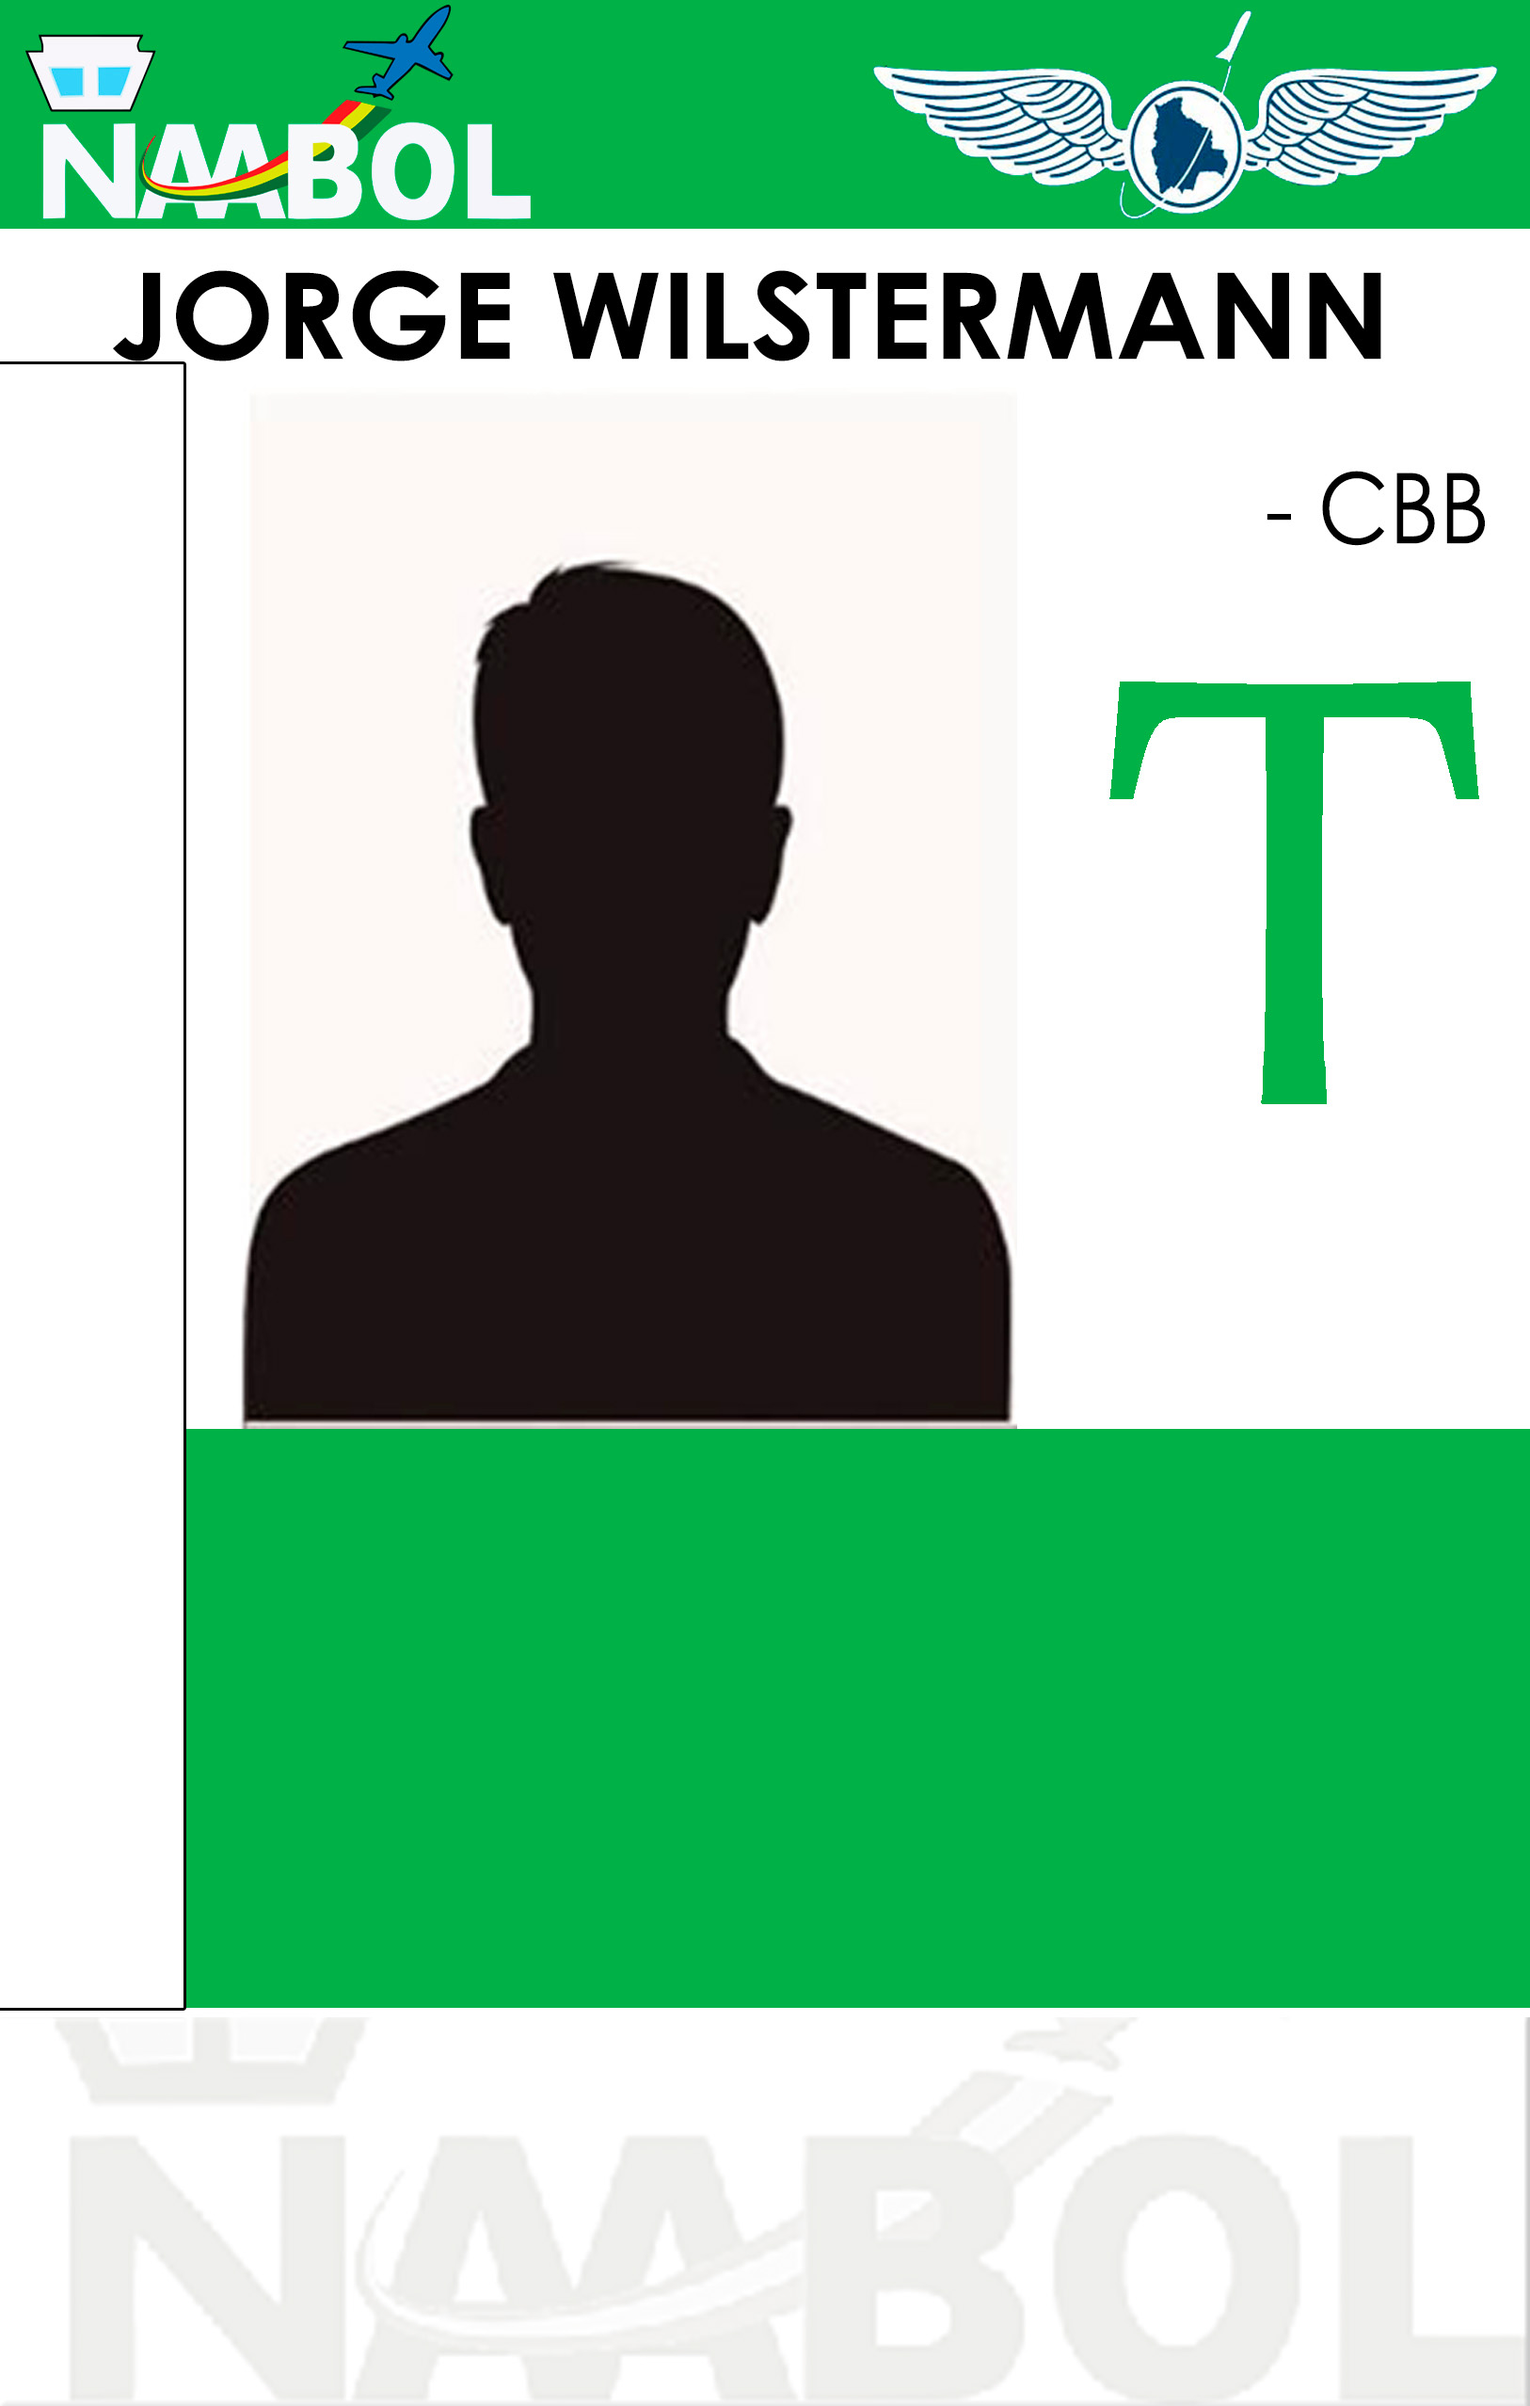
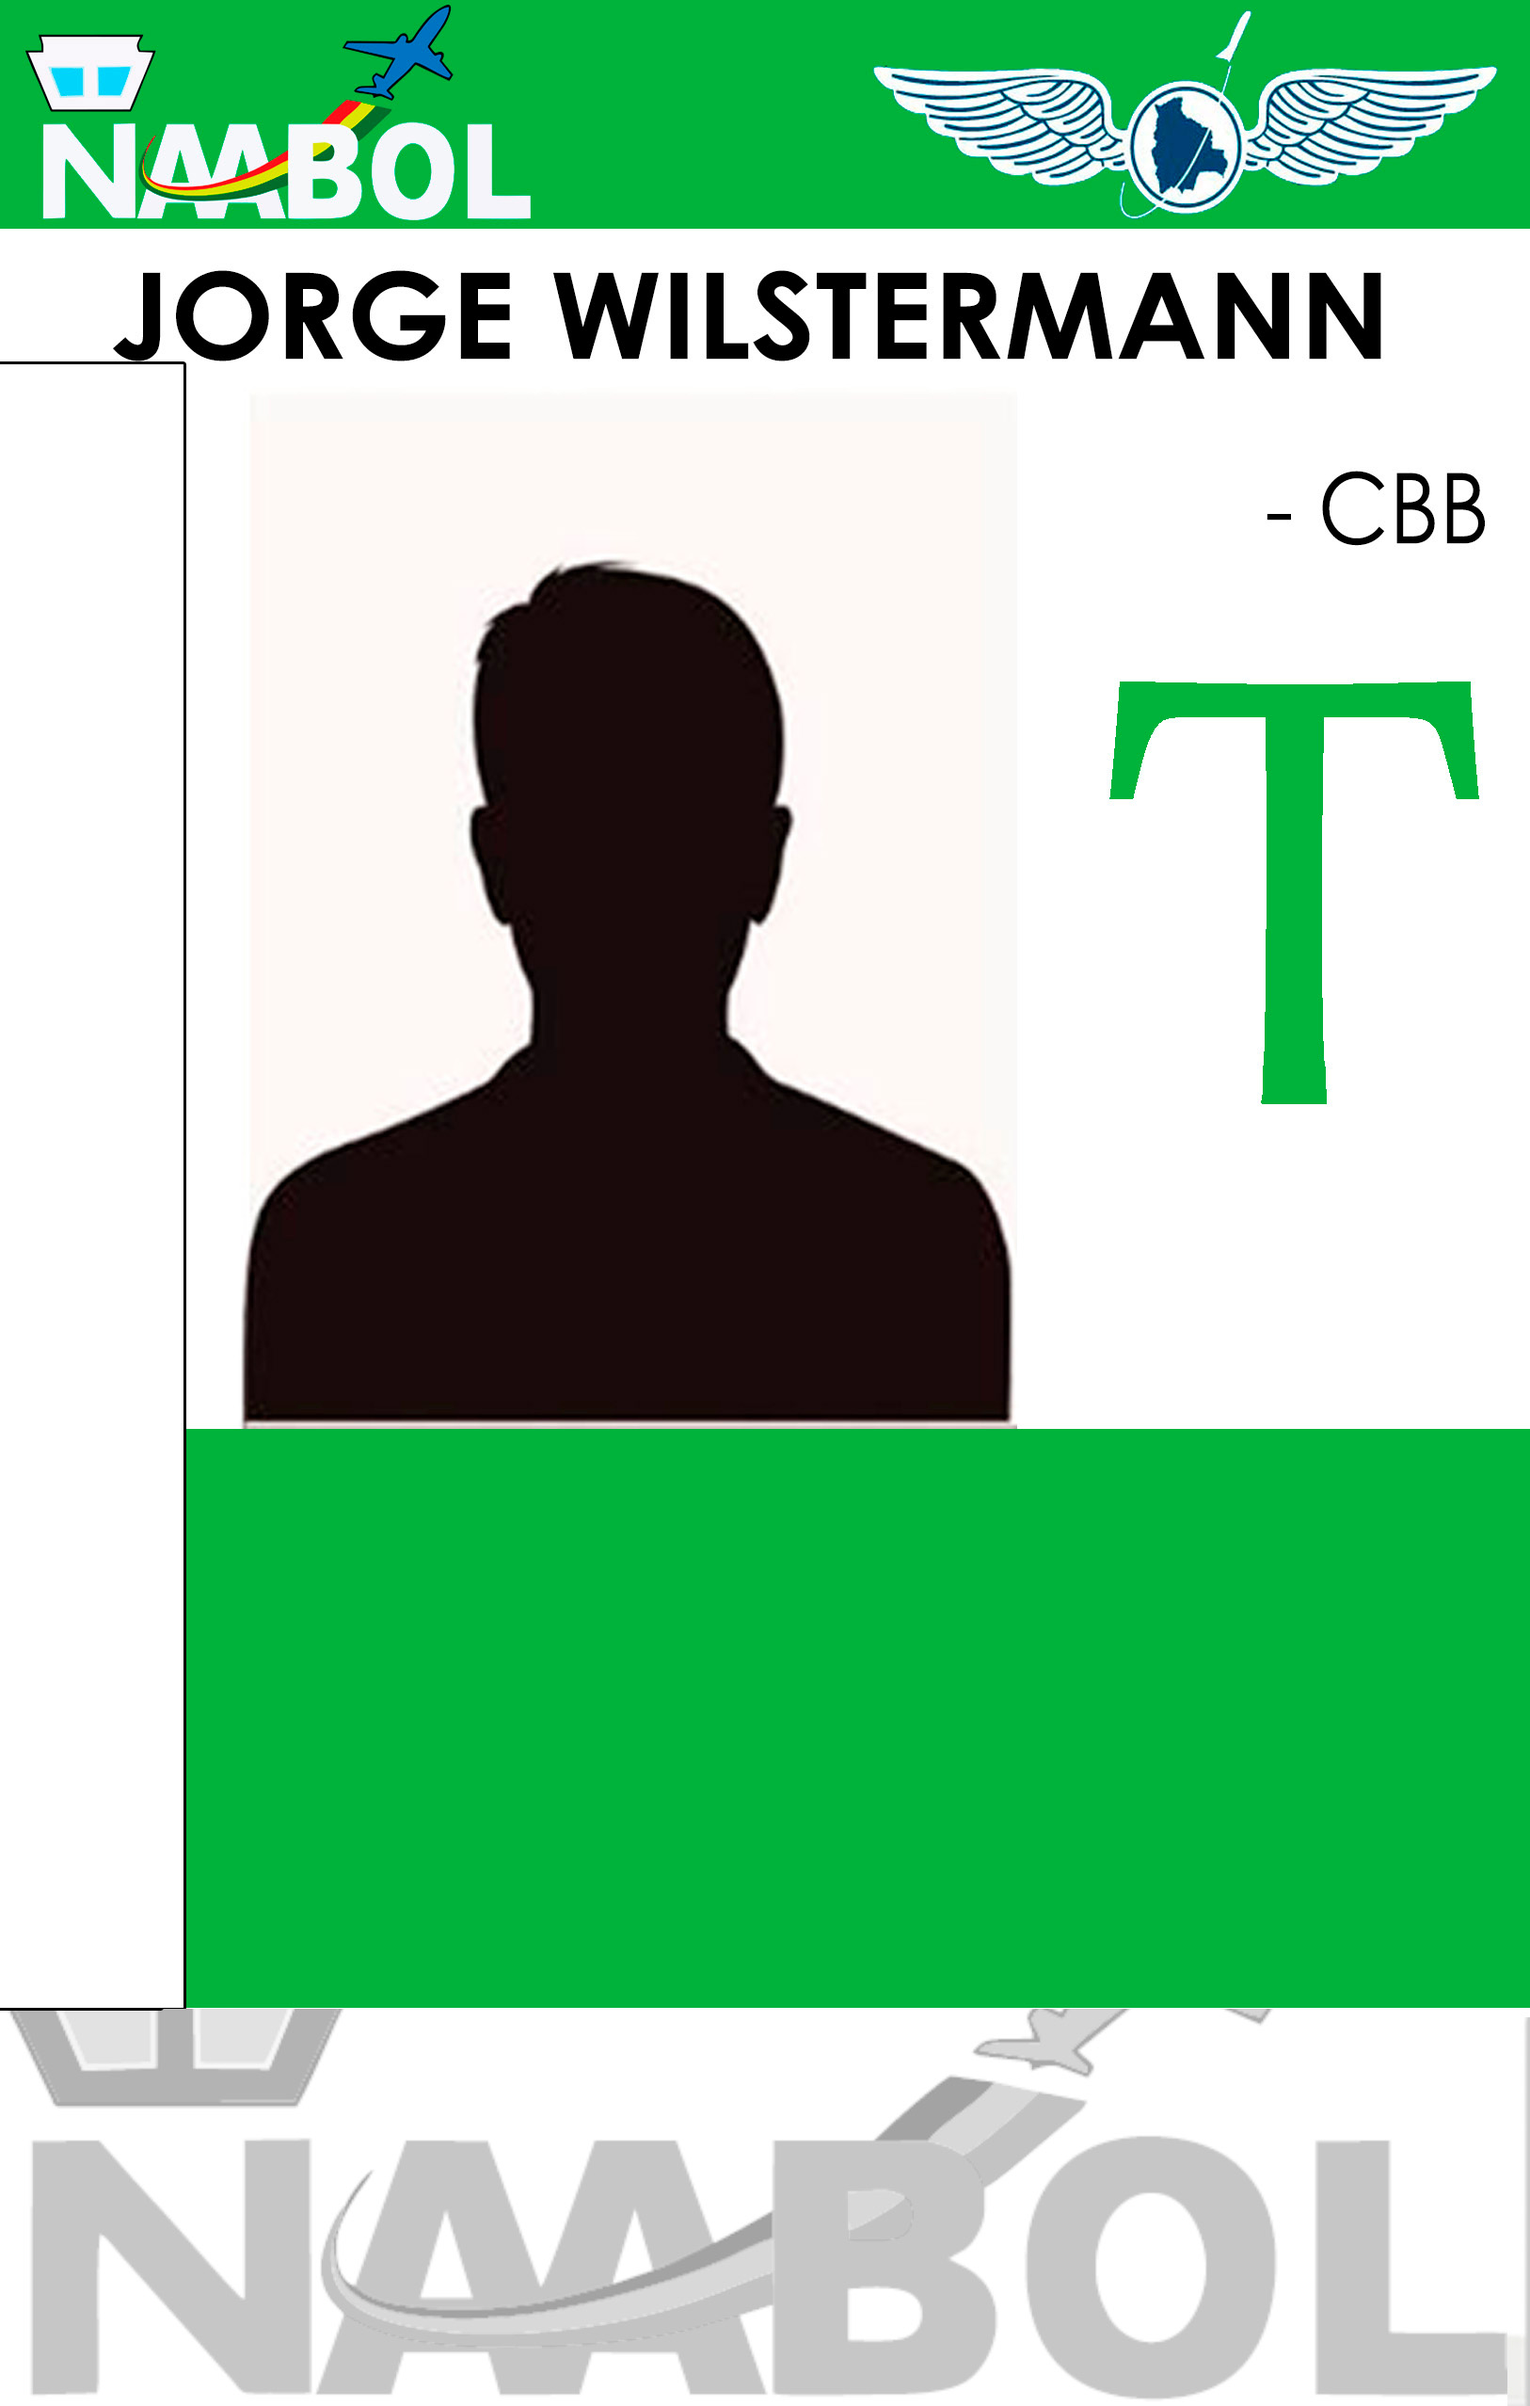
correccion ****
correcion en plantilla lpb temporal

diff --git a/resources/views/credenciales/pdf_creden_emp_T2.blade.php b/resources/views/credenciales/pdf_creden_emp_T2.blade.php
@@ -28,7 +28,7 @@
 
         p.a {
             position: relative;
-            top: 380px;
+            top: 400px;
             left: 90px;
             font-size: 30px;
             text-transform: uppercase;
@@ -124,7 +124,7 @@
         <!-- <p class="e">{{$M}}<br>{{$Y}}</p> -->
         <p class="date">{{$fechaFormLieteral}}</p>
         <p class="f"> {{$data->Codigo}}-{{$aero}}</p>
-        <p class="a"> {{$data->Nombres}} <br>{{$data->Paterno}} {{$data->Materno}}<br>{{$data->Cargo}} <br>{{$data->Empresa}}</p>
+        <p class="a"> {{$data->Nombre}} <br>{{$data->Paterno}} {{$data->Materno}}<br>{{$data->Cargo}} <br>{{$em}}</p>
         <p class="b">{{$data->AreasAut}}</p>
         <p class="ci">{{$data->CI}}</p>
         <p class="per"><strong style="color: red ;"> @if($data->Herramientas != '') H @endif</strong> <br> @if($data->NroRenovacion != 0) D @endif</p>
